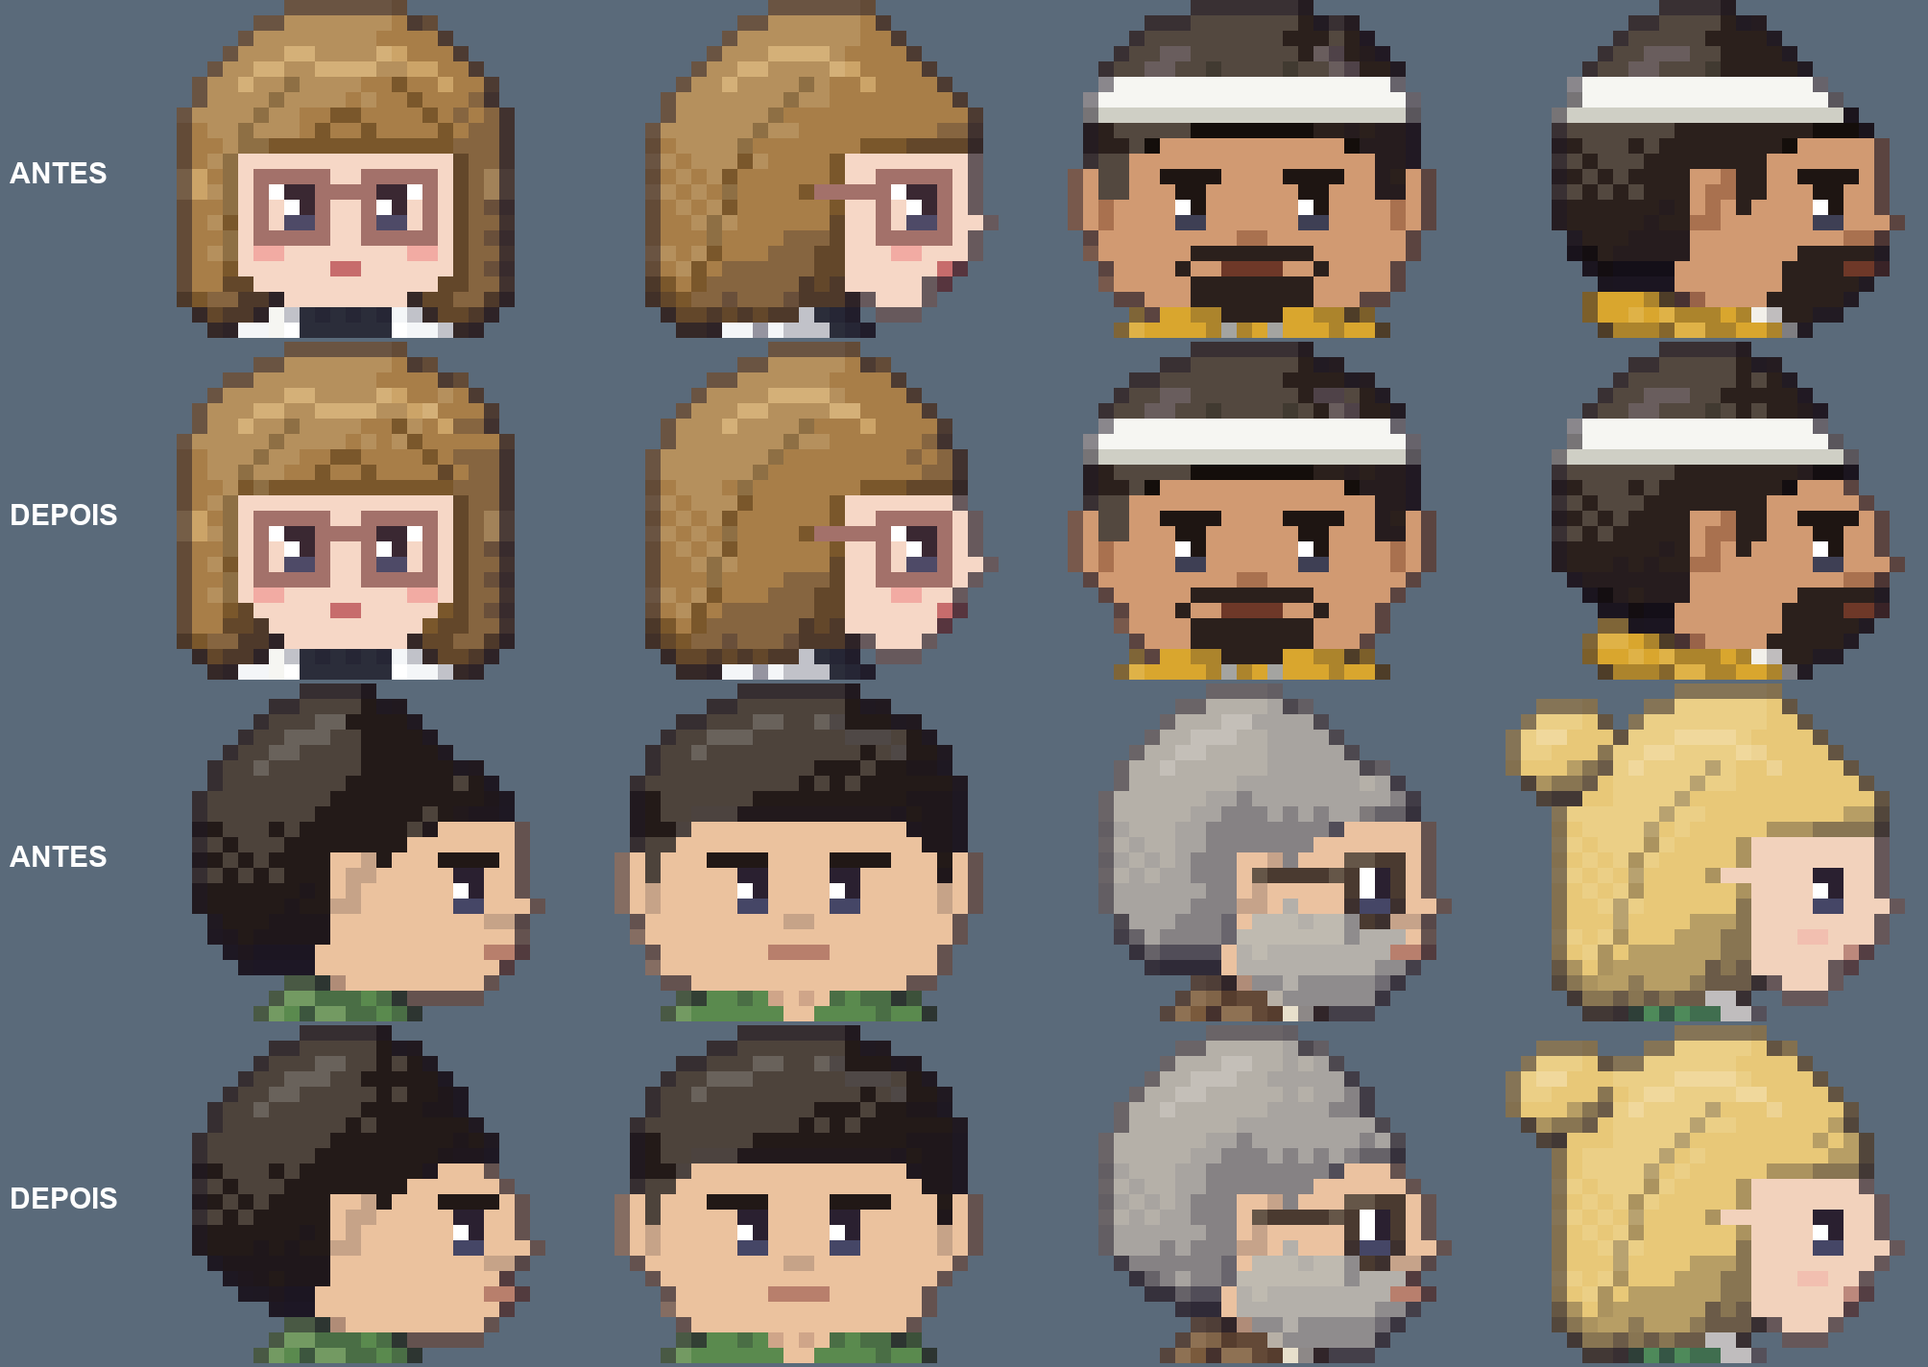
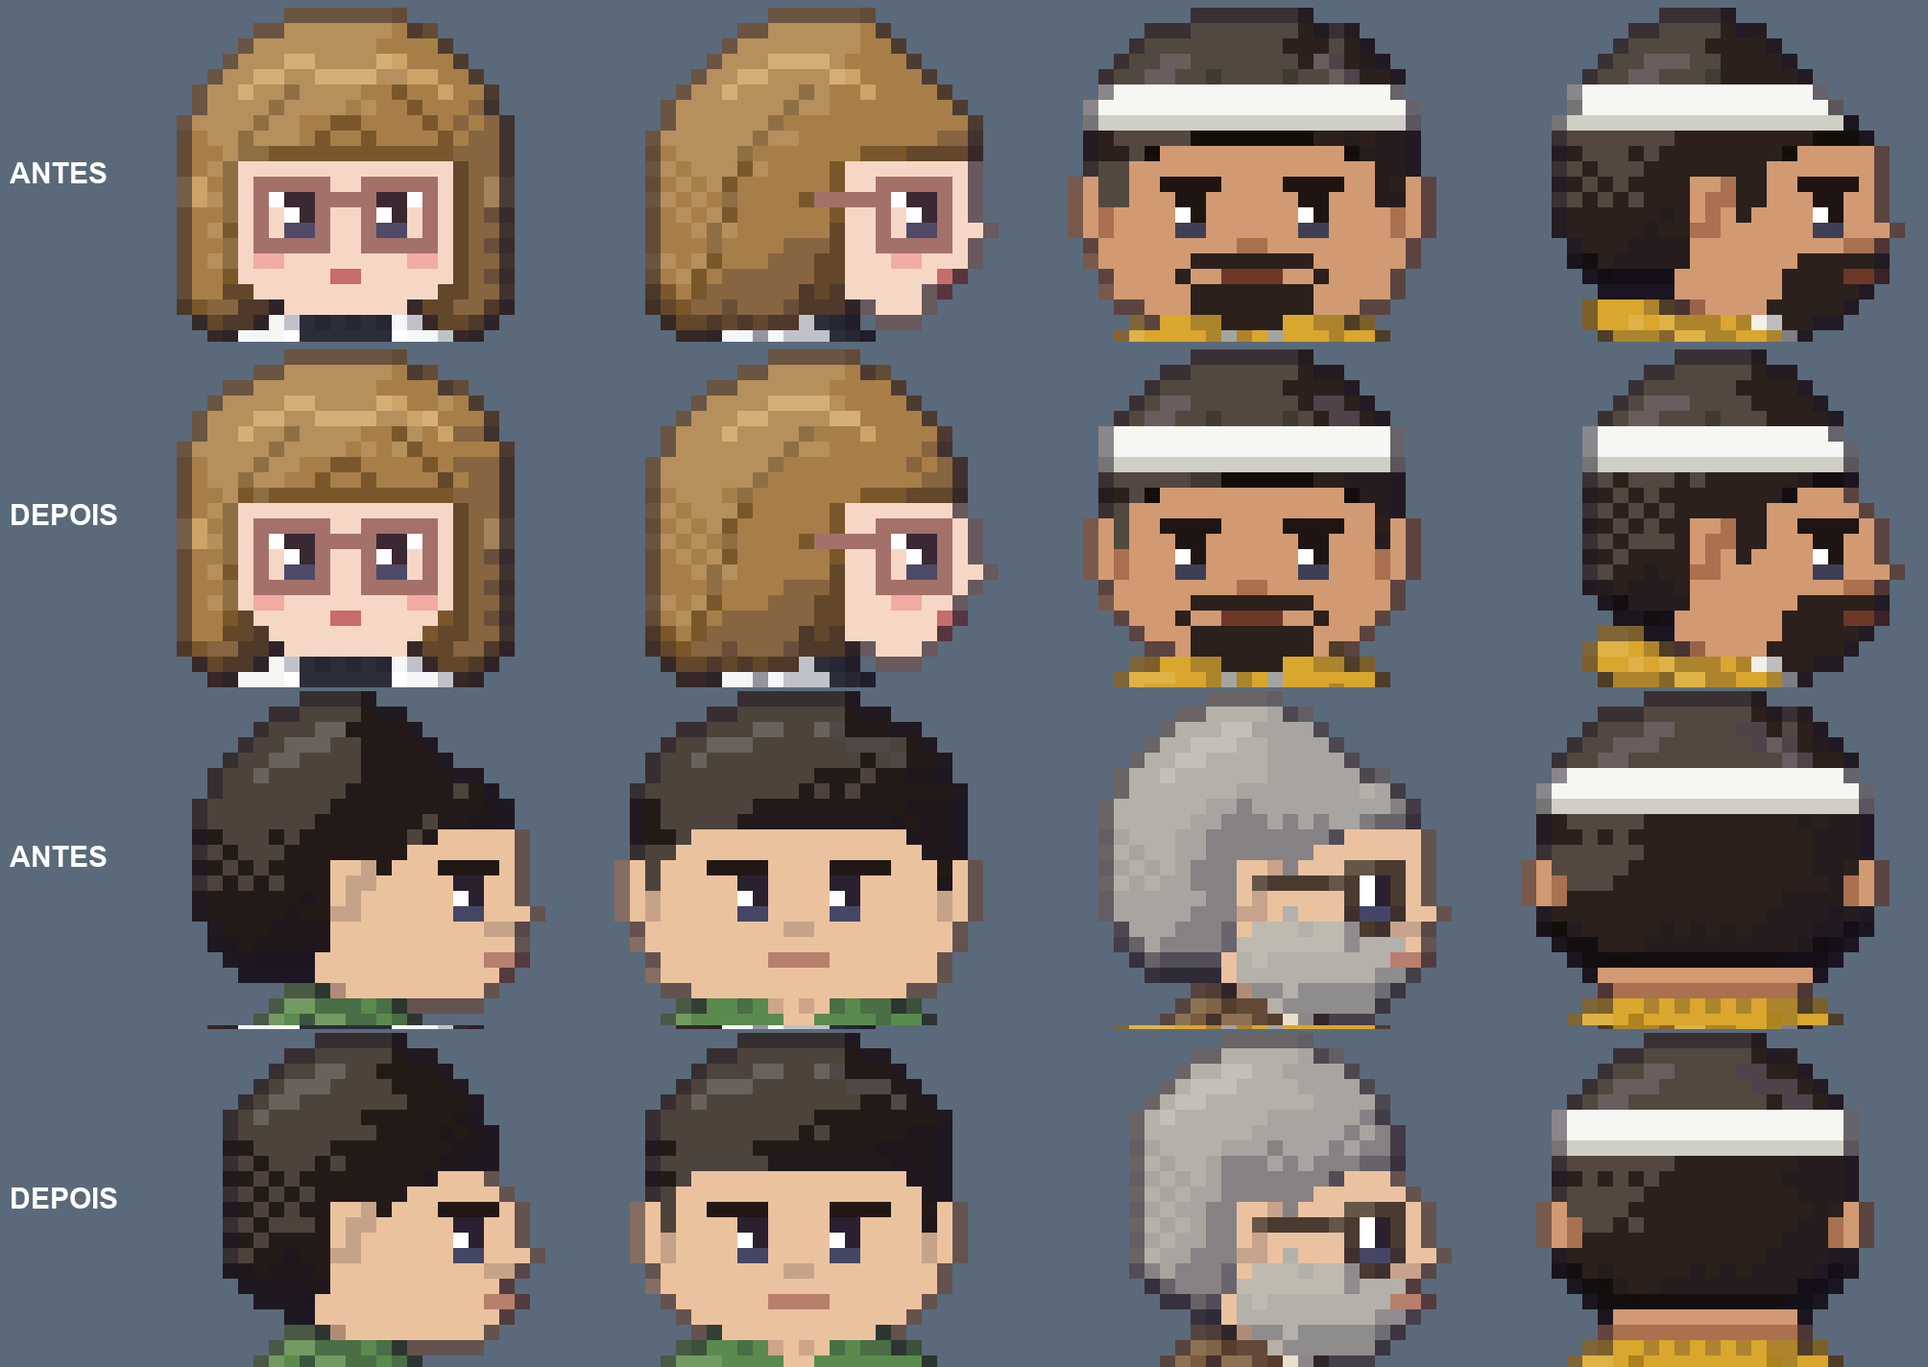
Melhorias, parte 1: cabeça do Fabio e do homem genérico mais estreita
A cabeça masculina era mais larga que alta e parecia amassada: fica 2 px
mais estreita (oval em pé), com a nuca mais redonda de lado e o queixo
fechando até o pescoço. A barba do Tony acompanha o rosto novo.

diff --git a/v2/data/sprites.js b/v2/data/sprites.js
@@ -112,44 +112,44 @@ Object.assign(window.SPRITES, {
     "",
     ".........hhhh",
     ".......hhhhhh",
-    ".....hhHHhhhh",
-    "....hhHHhhjhh",
+    "......hHHhhhh",
+    ".....hHHhhjhh",
     "....hHhhhjhhh",
-    "...hhhhhjhhhh",
-    "...hhhhjhhhhh",
-    "...hhhhhhjjjj",
-    "...hhhjssssss",
-    "...hhssssssss",
-    "..shhssddddss",
-    "..shhssseesss",
-    "..sSssss*essssss*essssSs..",
-    "..sSssssEEsss",
-    "...sssssssssS",
+    "....hhhhjhhhh",
+    "....hhhjhhhhh",
+    "....hhhhhjjjj",
+    "....hhjssssss",
+    "....hssssssss",
+    "...shssddddss",
+    "...shssseesss",
+    "...sSsss*essssss*esssSs...",
+    "...sSsssEEsss",
+    "....ssssssssS",
     "....sssssbbbb",
     ".....sssbssmm",
-    ".....ssssbbbb",
     "......sssbbbb",
+    "........sbbbb",
     "...........bb",
   ]),
   HEAD_FABIO_SIDE: padRows([
     "",
-    "..........hhhhhh",
-    "........hhhhhhhhhh",
-    ".......hhHHHhhhhhhh",
-    "......hhHHhhhjhhhhhh",
-    ".....hhHhhhhjhhhhhhh",
-    ".....hhhhhhjhhhhhhhhh",
-    "....hhhhhhjhhhhhhhhhhh",
-    "....hhhhhhhhhhhhhhhhjj",
-    "....hhhhhhhhhhhhhhjsss",
-    "....hhhhhhhhhhhhhssssss",
-    "....hhhhhhhhssShhssdddds",
-    "....hhhhhhhhsSShhssseess",
-    "....hhhhhhhhsSshssss*ess",
-    "....hhhhhhhhSSssssssEEsss",
-    ".....hhhhhhhssssssssssSS",
-    "......jhhhhhsssssssbbbbb",
-    "........jjjsssssssbbbbmm",
+    "...........hhhhhh",
+    ".........hhhhhhhhhh",
+    "........hHHHhhhhhhhh",
+    ".......hHHhhhjhhhhhhh",
+    "......hHhhhhjhhhhhhhh",
+    "......hhhhhjhhhhhhhhhh",
+    "......hhhhjhhhhhhhhhhh",
+    "......hhhhhhhhhhhhhhjj",
+    "......hhhhhhhhhhhhjsss",
+    "......hhhhhhhhhhhssssss",
+    "......hhhhhhssShhssdddds",
+    "......hhhhhhsSShhssseess",
+    "......hhhhhhsSshssss*ess",
+    "......hhhhhhSSssssssEEsss",
+    "......hhhhhhssssssssssSS",
+    ".......jhhhhsssssssbbbbb",
+    ".........jjsssssssbbbbmm",
     "...........sssssssbbbbb",
     ".............ssssbbbbb",
     "..................bb",
@@ -158,22 +158,22 @@ Object.assign(window.SPRITES, {
     "",
     ".........hhhh",
     ".......hhHHhh",
-    ".....hhHHHhhh",
-    "....hhHHhhhhh",
+    "......hHHHhhh",
+    ".....hHHhhhhh",
     "....hHhhhhhhh",
-    "...hhhhhhhhhh",
-    "...hhhhhhhhhh",
-    "...hhhhhhhhhh",
-    "...hhhhhhhhhh",
-    "...hhhhhhhhhh",
-    "..shhhhhhhhhh",
-    "..sShhhhhhhhh",
-    "..sShhhhhhhhh",
-    "...hhhhhhhhhh",
+    "....hhhhhhhhh",
+    "....hhhhhhhhh",
+    "....hhhhhhhhh",
+    "....hhhhhhhhh",
+    "....hhhhhhhhh",
+    "...shhhhhhhhh",
+    "...sShhhhhhhh",
+    "...sShhhhhhhh",
+    "....hhhhhhhhh",
     "....jhhhhhhhh",
     ".....jjhhhhhh",
     "......jjjjjjj",
-    "......sssssss",
+    ".......ssssss",
     ".......SSSSSS",
   ]),
   // homem genérico (NPCs): cabelo penteado de lado, sem barba (b = pele, ou a barba da roupa)
@@ -181,43 +181,43 @@ Object.assign(window.SPRITES, {
     "",
     ".........hhhh",
     ".......hhhHHh",
-    ".....hhHHHhhh",
-    "....hhHhhhhhh",
+    "......hHHHhhh",
+    ".....hHhhhhhh",
     "....hhhhhhhhh",
-    "...hhhhhhhhhh",
-    "...hhhhhhhhhh",
-    "...hhhjjjjjjj",
-    "...hhjsssssss",
-    "...hhssssssss",
-    "..shsssddddss",
-    "..shssssseess",
-    "..sSsssss*essss*esssssSs..",
-    "..sSsssssEEss",
-    "...sssssssssS",
+    "....hhhhhhhhh",
+    "....hhhhhhhhh",
+    "....hhjjjjjjj",
+    "....hjsssssss",
+    "....hssssssss",
+    "...shssddddss",
+    "...shsssseess",
+    "...sSssss*essss*essssSs...",
+    "...sSssssEEss",
+    "....ssssssssS",
     "....sssssssss",
     ".....ssssbsmm",
-    ".....ssssbbbb",
-    "......ssssbbb",
+    "......sssbbbb",
+    "........ssbbb",
   ]),
   HEAD_MAN_SIDE: padRows([
     "",
-    "..........hhhhhh",
-    "........hhhHHhhhhh",
-    ".......hhHHHhhhhhhh",
-    "......hhHHhhhhhhhhhh",
-    ".....hhHhhhhhhhhhhhh",
-    ".....hhhhhhhhhhhhhhhh",
-    "....hhhhhhhhhhhhhhhhhh",
-    "....hhhhhhhhhhhhhhhhjj",
-    "....hhhhhhhhhhhhhhjsss",
-    "....hhhhhhhhhhhhhssssss",
-    "....hhhhhhhhssShsssdddds",
-    "....hhhhhhhhsSSssssseess",
-    "....hhhhhhhhsSssssss*ess",
-    "....hhhhhhhhSSssssssEEsss",
-    ".....hhhhhhhssssssssssSS",
-    "......jhhhhhsssssssssss",
-    "........jjjssssssssbbbmm",
+    "...........hhhhhh",
+    ".........hhHHhhhhhh",
+    "........hHHHhhhhhhhh",
+    ".......hHHhhhhhhhhhhh",
+    "......hHhhhhhhhhhhhhh",
+    "......hhhhhhhhhhhhhhhh",
+    "......hhhhhhhhhhhhhhhh",
+    "......hhhhhhhhhhhhhhjj",
+    "......hhhhhhhhhhhhjsss",
+    "......hhhhhhhhhhhssssss",
+    "......hhhhhhssShsssdddds",
+    "......hhhhhhsSSssssseess",
+    "......hhhhhhsSssssss*ess",
+    "......hhhhhhSSssssssEEsss",
+    "......hhhhhhssssssssssSS",
+    ".......jhhhhsssssssssss",
+    ".........jjssssssssbbbmm",
     "...........sssssssbbbbb",
     ".............ssssbbbbb",
   ]),
@@ -929,13 +929,13 @@ Object.assign(window.SPRITES, {
   TONY_BEARD: {
     dy: 14,
     down: symRows([
-      "...b",
-      "...bb",
-      "...bbbbbbbbbb",
-      "...bbbbbbbbmm",
+      "....b",
+      "....bb",
       "....bbbbbbbbb",
+      "....bbbbbbbmm",
       ".....bbbbbbbb",
-      ".......bbbbbb",
+      "......bbbbbbb",
+      "........bbbbb",
     ]),
     side: padRows([
       "...............b",

diff --git a/CLAUDE.md b/CLAUDE.md
@@ -16,7 +16,7 @@ Jogo do pedido de casamento do Fabio para a Ellen. Tudo está no `SPEC.md`: leia
 - **V2, etapa 4 (fases 2, 3 e 4) pronta.** Mesmo jeito da fase 1: cada objeto guarda a geometria da V1 (só `size`/`solid`/`sight`/`base`, no topo de `scenery-f2/f3/f4.js`) e ganha o `art` (ou `liveNew`/`fxNew`, se anima); o desenho da V1 das fases 1 a 4 saiu (o que sobra da V1, `FLOORS`/`WALLS`/`EDGES`/`paintBase` e o `draw` dos objetos de `scenery-story.js`, é das cenas da história, até a etapa 5). As ferramentas que as fases reaproveitam estão em `Art.kit` (grama, nuvem `cloud` e `cumulus`, prédios, moita de copa, folhas de dia e de noite). O `Art.scenefx[estilo]` recebe o `look` (4º argumento). O estilo da parede existir em `Art.walls` é o que faz um cenário ser da V2, então os cenários que dividiam estilos da V1 ganharam nomes próprios (só desenho): F2 C2 `brazilPark`/`brazilSky`, F3 B2 `bbqPark`/`bbqSky`, F4 A1 `zooSky`; e as bordas `aquarium` (F4 A2), `reefRocks` (F4 B1) e `yanai` (F4 C1). Novidades no motor (só desenho): quem anda desenhado por objeto (`prop`: barco, cervos, tubarão-baleia, cardumes) usa o `liveNew` do objeto num cenário da V2 (no `stealth.js`; o objeto recebe o próprio vigia, em coordenadas novas); as luzes do `look.tint` aceitam um 5º valor, a cor do ambiente bem perto da luz (o tanque do aquário fica claro); `look.coneLum` faz o cone ver o chão mais escuro (vermelho mais fundo na areia clara do mergulho). Fase 2: praia ao meio-dia (mar com espuma e brilhos animados, morro de mata, pedras), cinema (carpete vinho, parede de tecido lavada pelas lâmpadas, bilheteria com o texto do config), apartamento numa tarde (o sol entra pela porta de vidro e pela porta aberta da varanda; a porta de vidro é desenhada por cima da parede: `glassDoor.base = 13`, só ordem de desenho) e Brazilian Day à tarde (a sombra comprida da árvore cai na roda; as barracas mostram a comida da placa). Fase 3: cozinha dos aniversários de dia (torta com as velas, balões, luzinhas e brilhos animados), Shirakawa-go numa manhã de sol (sombras azuis na neve, casas gassho de frente para a empena), esqui à tarde (pista batida com rastros, teleférico com cadeirinhas), churrasco **à noite** como na foto (pátio de tijolos, `look.tint` com a churrasqueira e os dois postes; árvores com `night: true`; os bancos da mesa são um objeto novo só de desenho, `picnicBench`, no fundo), Himeji (muralha de pedras irregulares, castelo com empenas) e Nara (lagoa com o reflexo das cerejeiras, pagode ao fundo, barco e cervos novos). Fase 4: zoológico (bichos animados atrás da grade, placa de setas, barraquinhas), aquário escuro (`look.tint`; tanque turquesa com corais, cardumes, raia e o tubarão-baleia), mergulho (`look.tint` verde-azulado claro, corais com anêmona e peixe-palhaço, raios de luz e bolhas; o cardume fica recortado no próprio cenário), oficina das alianças (teto de ripas, lâmpadas de filamento, vitrines), Yanai à noite (casas brancas, o arco de ginkgo, lanternas de peixinho com o brilho redondo) e Tottori (céu nublado em camadas, mar cinza, dunas com as ondinhas). Conferido: as 24 salas abrem sem erro, de 1 a 8 ms por quadro (montagem de 0,2 a 0,3 s por cenário, no cartão da fase); o `__balance()` dá exatamente os mesmos números da etapa 3 nos 24 cenários (comparado com uma cópia do commit da etapa 3); e o piloto automático joga do título à tela final em 248,8 s sem ser pega e sem nada no console.
 - **V2, etapa 5 (história, livraria, batalha, final, cartões e máquina) pronta.** As cenas da história são cenários da V2 como os outros (`scenery-story.js`, com a geometria da V1 no topo e o `art`/`liveNew`/`fxNew` de cada objeto), com `look.light` nos arquivos e, no quarto, `look.tint` (a penumbra do fim de tarde). Prólogo, cena 1 (`PRO1`): a lanchonete numa noite em Nagoia, piso xadrez encerado com o neon refletido, a faixa de janelas com a cidade à noite, o letreiro de neon (texto do config, na fonte nova em 2×; a placa e os tubos apagados no fundo, o neon aceso no `liveNew`, que engasga de vez em quando), os painéis de cardápio iluminados, o balcão de vinil vermelho com o balcão de inox e a passagem da cozinha atrás, as mesas com sofá capitonê e as banquetas cromadas (`dinerStool`, objeto novo só de desenho, sem colisão, acrescentado no `PRO1.js`). Cena 2 (`PRO2`): o quarto no fim da tarde, a janela da varanda com o céu do entardecer e a cortina azul, a foto dos dois na parede (que ele não lembra), o armário, o ar-condicionado, o colchão azul com o cobertor dobrado e a luz da janela no chão (`Art.posts.apt`). Cena 3 (`LAB`): piso vinílico com a faixa de segurança e os cabos (no pintor do piso, em px novos), as luminárias do teto, o cano, a tabela periódica, o quadro do Tony com contas em giz (a fonte nova; o `=`, que não está na fonte, é feito na mão), a prateleira da Heymans, o caderno de couro do Dr King, o painel com a onda animada (`liveNew`) e a máquina do tempo (`liveNew`: o anel sombreado como pneu, as 8 luzes, o portal girando em 12 quadros com o brilho, as faíscas no `on: 1`). Livraria (`SHOP`, pelas fotos): carpete, parede creme com os coraçõezinhos, a estante de nichos (continua descendo pela borda esquerda, de lado), a janela, o mural, a parede do balcão com a luminária de casquinha (sem marca), o balcão, a escada com a luz quente do 2º andar, a divisória de vidro com o revisteiro, as mesas pretas com as cadeiras de encosto curvo e o X preto, e as luminárias geométricas com a jiboia (`fxNew`). A seta da escada (`Story.marker`) é nova, em coordenadas novas. Batalha: o fundo é a livraria montada com os mesmos desenhos do SHOP (`Scenery.props.cubeShelf.art` etc.) e os dois em tapetes redondos; as ondas de cheiro e o tiro (clarão, rastro, anel de impacto; errando, a faísca bate na parede entre a janela e o balcão, fora das caixas) no tamanho novo. Tela final: a escada de madeira em perspectiva com a passadeira vinho, os corrimãos, a porta do 2º andar acesa com a poeira brilhando e os corações novos (o texto no mesmo lugar). Cartões: brilho índigo pontilhado e estrelinhas; o da fase ganha o friso dourado com o losango, e o em itálico, uma ampulheta com a areia caindo. Máquina: um monitor de tubo (moldura com parafusos e luzinhas, vidro curvo, marcas nos cantos, brilho do fósforo no texto, faixa de varredura); o texto no mesmo lugar. Conferido: as 30 salas e as telas sem erro, ~2 ms por quadro (fundo da batalha e do final: ~0,1 s na primeira vez, na tela preta da transição); as fases 1 a 4, o corredor e o baú saem idênticos pixel a pixel ao commit da etapa 4 (a limpeza do motor não mudou nada); o `__balance()` dá exatamente os mesmos números da etapa 4 nos 24 cenários; e o piloto automático joga do título à tela final em 248,9 s sem ser pega e sem nada no console.
 - **V2, etapa 6 (polimento) pronta: a V2 está completa.** Conferido no Chrome sem janela, pelo `file://` (`v2/tools/headless.html`, ver "Como testar"): a partida inteira com o piloto automático (248,9 s, sem ser pega, sem erro nem aviso no console), o `__balance()` igual ao da etapa 4 nos 24 cenários, as 4 senhas com todas as respostas aceitas e as variações (as erradas são recusadas; o campo aceita até 22 letras), os caminhos da batalha (o anel sem gastar o turno, 5 tiros errados → "Try again?" com tudo de volta, o Mounjaro → SUPERSIZE → tiro final), os 48 destinos do menu de teste seguidos do Ctrl+Shift+K, a pausa, e prints de todas as telas em 1920×1080: o jogo ocupa a tela inteira em 4× também com o zoom do Windows em 125% e 150%. A V1 (o `index.html` da raiz) não mudou desde a tag `v1` (só documentação fora de `v2/`) e continua jogável do começo ao fim (248,9 s); o único aviso dela é antigo, de antes da V2: a fonte 5×7 não tem o "*" da faísca do tiro errado (como a V1 não pode mudar, ficou). Acertos de desenho desta etapa: a tela de título ganhou o céu com a nebulosa e a lua crescente, a silhueta da cidade com as janelas acesas e a Mirai Tower (luz vermelha piscando), a poça de luz embaixo dos dois e uma estrela cadente de vez em quando (o texto no mesmo lugar); o céu do F2 A2 é o do F2 A1 espelhado (`look.mirrorSky`, só desenho), para o morro de mata continuar de uma metade da praia para a outra em vez de cortar reto; a faixa do aniversário (F3 A1) tem uma bandeirinha para cada letra; e os dois da oficina das alianças (F4 B2) sentam em banquetas (`workStool`, objeto novo só de desenho, sem colisão, no `F4B2.js`; antes ficavam flutuando, com a sombra solta embaixo).
-- **Melhorias (`MELHORIAS.md`), parte 1 pronta: cabeça mais redonda (só V2).** Só os moldes de `v2/data/sprites.js` mudaram (`HEAD_ELLEN_*`, `HEAD_FABIO_*`, `HEAD_MAN_*`): de lado, o perfil curvo (a franja e a testa 1 coluna para trás, o ponto mais à frente nos olhos e no nariz, a bochecha e o queixo voltando 1 coluna por linha; no homem genérico, o lábio aparece), a nuca e o alto redondos; de frente e de costas, o alto em cúpula e o queixo afinando (a barba do Fabio acompanha). A linha 1 (topo), as linhas 19 e 20, os olhos, os óculos e a boca continuam no mesmo lugar; nenhum acessório precisou mudar. Antes e depois em `docs/v2/cabecas_antes_depois.png`. Novos códigos de print no `headless.js`: `HEADS`, `HEADZ`, `HEADSET:página` e `POSES:ROUPA`. Conferido: as cabeças com acessório (3 páginas do `HEADSET`), as poses da Ellen, do Fabio e do Tony, o piloto automático (248,9 s, sem ser pega, console vazio) e o `__balance()` igual.
+- **Melhorias (`MELHORIAS.md`), parte 1 pronta: cabeça mais redonda (só V2).** Só os moldes de `v2/data/sprites.js` mudaram (`HEAD_ELLEN_*`, `HEAD_FABIO_*`, `HEAD_MAN_*`): de lado, o perfil curvo (a franja e a testa 1 coluna para trás, o ponto mais à frente nos olhos e no nariz, a bochecha e o queixo voltando 1 coluna por linha; no homem genérico, o lábio aparece), a nuca e o alto redondos; de frente e de costas, o alto em cúpula e o queixo afinando (a barba do Fabio acompanha). Depois, pedido do Fabio ("a cabeça do Fabio continua amassada"): a cabeça do Fabio e a do homem genérico ficaram 2 px mais estreitas (rosto nas colunas 4 a 21 de frente; de lado, a nuca começa na coluna 6), um oval em pé em vez de uma bola achatada, e o queixo fecha até a linha 19 (embaixo dela só há o pescoço do tronco). A linha 1 (topo), os olhos, os óculos e a boca continuam no mesmo lugar; dos acessórios, só a barba do Tony de frente mudou (1 coluna para dentro); os bonés, gorros e capacetes ficam 1 px mais largos que a cabeça, como chapéu de verdade. Antes e depois em `docs/v2/cabecas_antes_depois.png`. Novos códigos de print no `headless.js`: `HEADS`, `HEADZ`, `HEADSET:página` e `POSES:ROUPA`. Conferido: as cabeças com acessório (3 páginas do `HEADSET`), as poses da Ellen, do Fabio e do Tony, o piloto automático (248,9 s, sem ser pega, console vazio) e o `__balance()` igual.
 - Falta só o que precisa de gente: ouvir as músicas e os efeitos (o volume foi medido, mas não ouvido), abrir com dois cliques no `index.html` e no `v2/index.html` (file://) no notebook do Fabio e jogar em tela cheia 1920×1080 com a tecla F (o `file://` e o tamanho de 1920×1080 já foram conferidos no Chrome sem janela; a tela cheia de verdade precisa de uma tecla apertada por gente).
 - Som (`sound.js`): efeitos e um sequenciador de chiptune com eco leve e um limitador no fim. As 12 músicas são dados em `data/music.js` (melodia em notas, acordes que geram o baixo e o arpejo, bateria por passo). `Sound.music(nome)` troca a música (a mesma não recomeça; antes da primeira tecla, guarda o pedido). Quem escolhe: o título, o cartão de cada fase (`f1` … `f4`), as salas pela fase, a máquina (`lab`), as cenas da história pela chave `music` (lanchonete em silêncio até o vilão chegar, que toca `tense`; apartamento `sad`; laboratório `lab`; livraria `shop`; depois da batalha, `ending`), a batalha (`battle`, `transform` e o silêncio antes do tiro) e a tela final. `Sound.render` mede o volume offline (ver `tools/devtools.js`). Todo nó de ganho de nota começa em 0: com o padrão 1, o ruído dava cliques altos.
 - Fases 2 a 4: cenários em `data/scenes/F2A1.js` … `F4C2.js`, desenhados em `scenery-f2.js`, `scenery-f3.js` e `scenery-f4.js`, com as roupas em `data/characters-fN.js` e as peças de sprite em `data/sprites-fN.js`. Cada fase segue o mesmo fluxo da fase 1 (cartão → A → corredor → B → corredor → C → baú → máquina), e a máquina da fase 4 leva ao cartão da fase 5.
